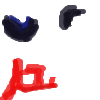
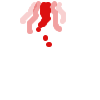
Got sprites to work

Changed region(s): [[0.0, 0.0, 0.87, 0.42], [0.0, 0.57, 0.6, 1.0], [0.42, 0.33, 0.54, 0.48]]

diff --git a/FireHose(DirectX)/Player.cs b/FireHose(DirectX)/Player.cs
@@ -31,6 +31,12 @@ namespace FireHose_DirectX_
 
         public Texture2D CurrentPlayerTexture;
 
+        AnimatedSprite runAnimationLeft;
+        Texture2D runAnimationTextureLeft;
+        AnimatedSprite runAnimationRight;
+        Texture2D runAnimationTextureRight;
+        
+
         Vector2 playerOrigin;
         Gun fireGun;
         Gun waterGun;
@@ -52,7 +58,9 @@ namespace FireHose_DirectX_
 
         Vector2 flyDirection;
         public Vector2 PlayerPosition;
-        public Vector2 PlayerStartPosition; 
+        public Vector2 PlayerStartPosition;
+
+        
 
         public int PlayerNumber;
         int BumpCount = 30;
@@ -111,7 +119,17 @@ namespace FireHose_DirectX_
 
         public void LoadContent(ContentManager content)
         {
-            playerTexture = content.Load<Texture2D>("dude.png");
+            if (PlayerNumber == 1)
+                playerTexture = content.Load<Texture2D>("manStanding2.png");
+            if (PlayerNumber == 2)
+                playerTexture = content.Load<Texture2D>("manStanding1.png");
+
+            runAnimationTextureLeft = content.Load<Texture2D>("runMarshmallowManLeft.png");
+            runAnimationLeft = new AnimatedSprite(runAnimationTextureLeft, 1, 8, PlayerColor);
+
+            runAnimationTextureRight = content.Load<Texture2D>("runMarshmallowManRight.png");
+            runAnimationRight = new AnimatedSprite(runAnimationTextureRight, 1, 8, PlayerColor);
+                        
             damageTexture = content.Load<Texture2D>("dudedamage.png");
             burnDamageTexture = content.Load<Texture2D>("BurnDamage");
             playerDeadTexture = content.Load<Texture2D>("deadDude.png");
@@ -145,7 +163,12 @@ namespace FireHose_DirectX_
             
             //Dummy method for pushing info to text box
             //Location = fireGun.GetLocation();
-            
+
+            if (this.isGrounded == true)
+            {
+                runAnimationLeft.Update();
+                runAnimationRight.Update();
+            }
 
             DeltaColor--;
             if (DeltaColor < 0)
@@ -184,13 +207,24 @@ namespace FireHose_DirectX_
 
         public void Draw(SpriteBatch sb)
         {
-            
-            sb.Draw(CurrentPlayerTexture, ConvertUnits.ToDisplayUnits(playerBody.Position), null, PlayerColor, playerBody.Rotation, playerOrigin, .5f, SpriteEffects.None, 0f);
-            sb.Draw(damageTexture,  ConvertUnits.ToDisplayUnits(playerBody.Position), null, DamageColor, playerBody.Rotation, playerOrigin, .5f, SpriteEffects.None, 1f);
+
+            if (playerBody.LinearVelocity.X < 1f && playerBody.LinearVelocity.X > -1f)
+                sb.Draw(CurrentPlayerTexture, ConvertUnits.ToDisplayUnits(playerBody.Position), null, PlayerColor, playerBody.Rotation, playerOrigin, .5f, SpriteEffects.None, 0f);
+
+            if (playerBody.LinearVelocity.X >= 1f)
+                runAnimationRight.Draw(sb, ConvertUnits.ToDisplayUnits(playerBody.Position), PlayerColor, playerOrigin, playerBody.Rotation);
+
+            if (playerBody.LinearVelocity.X <= -1f)
+                runAnimationLeft.Draw(sb, ConvertUnits.ToDisplayUnits(playerBody.Position), PlayerColor, playerOrigin, playerBody.Rotation);
+
+
+
+            sb.Draw(damageTexture,  ConvertUnits.ToDisplayUnits(playerBody.Position) - new Vector2(0f, 1f), null, DamageColor, playerBody.Rotation, playerOrigin, .5f, SpriteEffects.None, 1f);
             sb.Draw(burnDamageTexture, ConvertUnits.ToDisplayUnits(playerBody.Position), null, BurnDamageColor, playerBody.Rotation, playerOrigin, .5f, SpriteEffects.None, 1f);
             waterGun.Draw(sb);
             fireGun.Draw(sb);
             
+
             if (BumpDamaged == true)
             {
                 sb.Draw(bumpDamageTexture, ConvertUnits.ToDisplayUnits(playerBody.Position), null, Color.White, playerBody.Rotation, playerOrigin, 1f, SpriteEffects.None, 1f);

diff --git a/FireHose(DirectX)/AnimatedSprite.cs b/FireHose(DirectX)/AnimatedSprite.cs
@@ -1,0 +1,75 @@
+#region Using Statements
+using System;
+using System.Collections.Generic;
+using Microsoft.Xna.Framework;
+using Microsoft.Xna.Framework.Content;
+using Microsoft.Xna.Framework.Graphics;
+using Microsoft.Xna.Framework.Input;
+using Microsoft.Xna.Framework.Storage;
+using Microsoft.Xna.Framework.Audio;
+using Microsoft.Xna.Framework.Media;
+using FarseerPhysics.Dynamics;
+using FarseerPhysics.Factories;
+using FarseerPhysics.Collision;
+using FarseerPhysics.Common;
+using FarseerPhysics.Controllers;
+using FarseerPhysics.Dynamics.Contacts;
+using Tao.Sdl; 
+
+#endregion
+
+namespace FireHose_DirectX_
+{
+    class AnimatedSprite
+    {
+        public Texture2D Texture;
+        public int Rows;
+        public int Columns;
+        private int currentFrame;
+        private int totalFrames;
+        Color PlayerColor;
+        Vector2 PlayerOrigin;
+
+        private int frameDelay = 3;
+
+        public AnimatedSprite (Texture2D texture, int rows, int columns, Color playerColor)
+        {
+            Texture = texture;
+            Rows = rows;
+            Columns = columns;
+            currentFrame = 0;
+            totalFrames = Rows * Columns;
+            PlayerColor = playerColor;
+        }
+
+        public void Update()
+        {
+            frameDelay--;
+            if (frameDelay < 0)
+            {
+                currentFrame++;
+                Console.WriteLine(currentFrame);
+                frameDelay = 3;
+            }
+            
+            if (currentFrame == totalFrames)
+                currentFrame = 0;
+        }
+
+        public void Draw(SpriteBatch spriteBatch, Vector2 location, Color playerColor, Vector2 playerOrigin, float playerRotation)
+        {
+            int width = Texture.Width / Columns;
+            int height = Texture.Height / Rows;
+            int row = (int)((float)currentFrame / (float)Columns);
+            int column = currentFrame % Columns;
+
+            Rectangle sourceRectangle = new Rectangle(width * column, height * row, width, height);
+            Rectangle destinationRectangle = new Rectangle((int)location.X, (int)location.Y, width, height);
+            PlayerOrigin = playerOrigin / 2;
+            PlayerColor = playerColor;
+           
+            spriteBatch.Draw(Texture, null, destinationRectangle, sourceRectangle, PlayerOrigin, playerRotation, new Vector2(1f, 1f), PlayerColor, SpriteEffects.None, 0f);
+           
+        }
+    }
+}

diff --git a/FireHose(DirectX)/FireHoseGame.cs b/FireHose(DirectX)/FireHoseGame.cs
@@ -251,7 +251,7 @@ namespace FireHose_DirectX_
             graphics.PreferredBackBufferWidth = 1800;
             graphics.PreferredBackBufferHeight = 1000;
             
-            this.graphics.IsFullScreen = true;
+          //  this.graphics.IsFullScreen = true;
 
             Content.RootDirectory = "Content";
 
